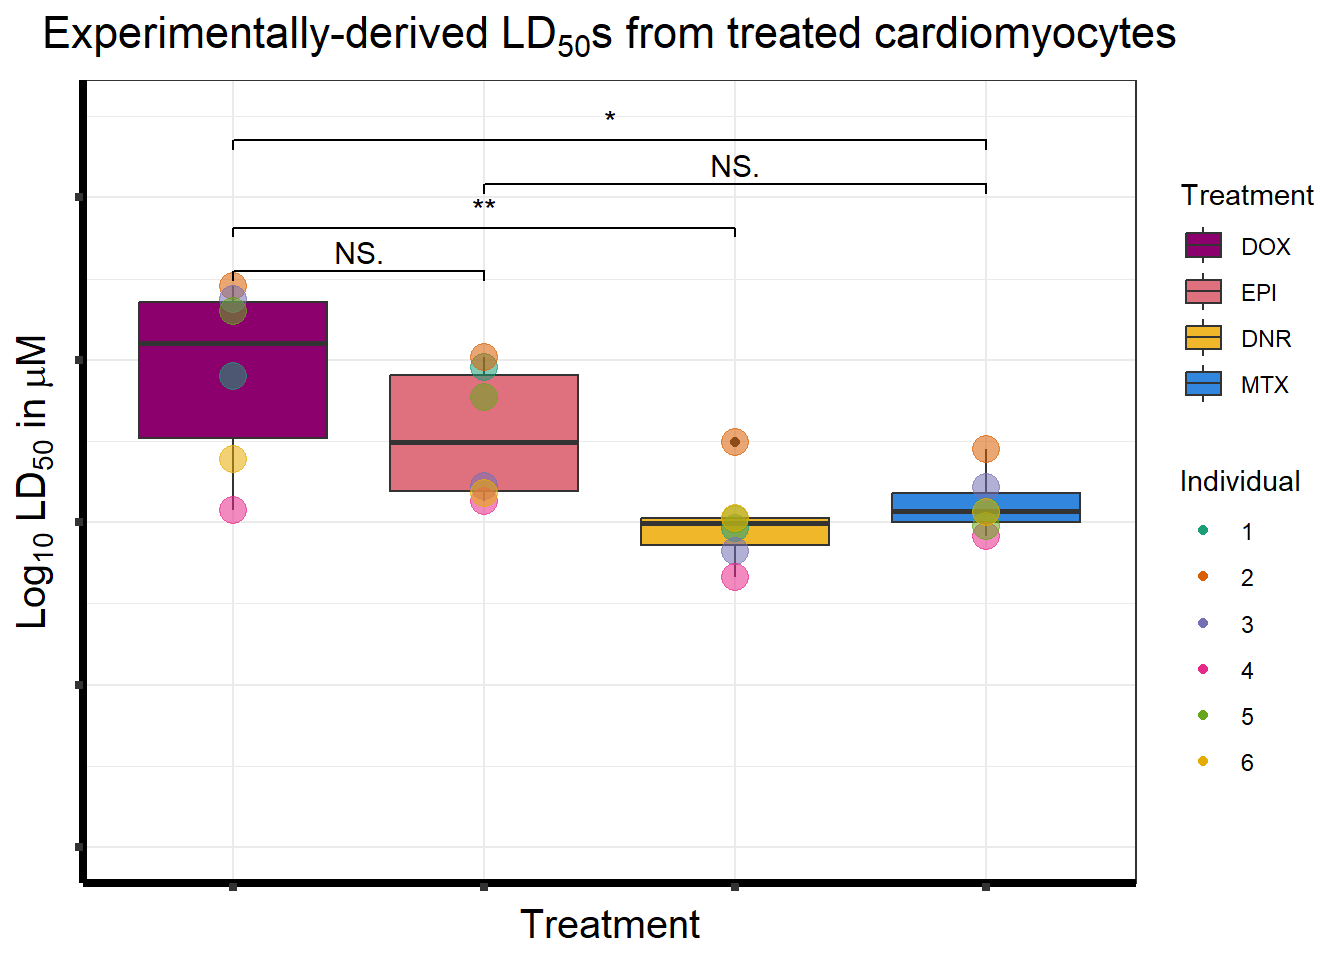
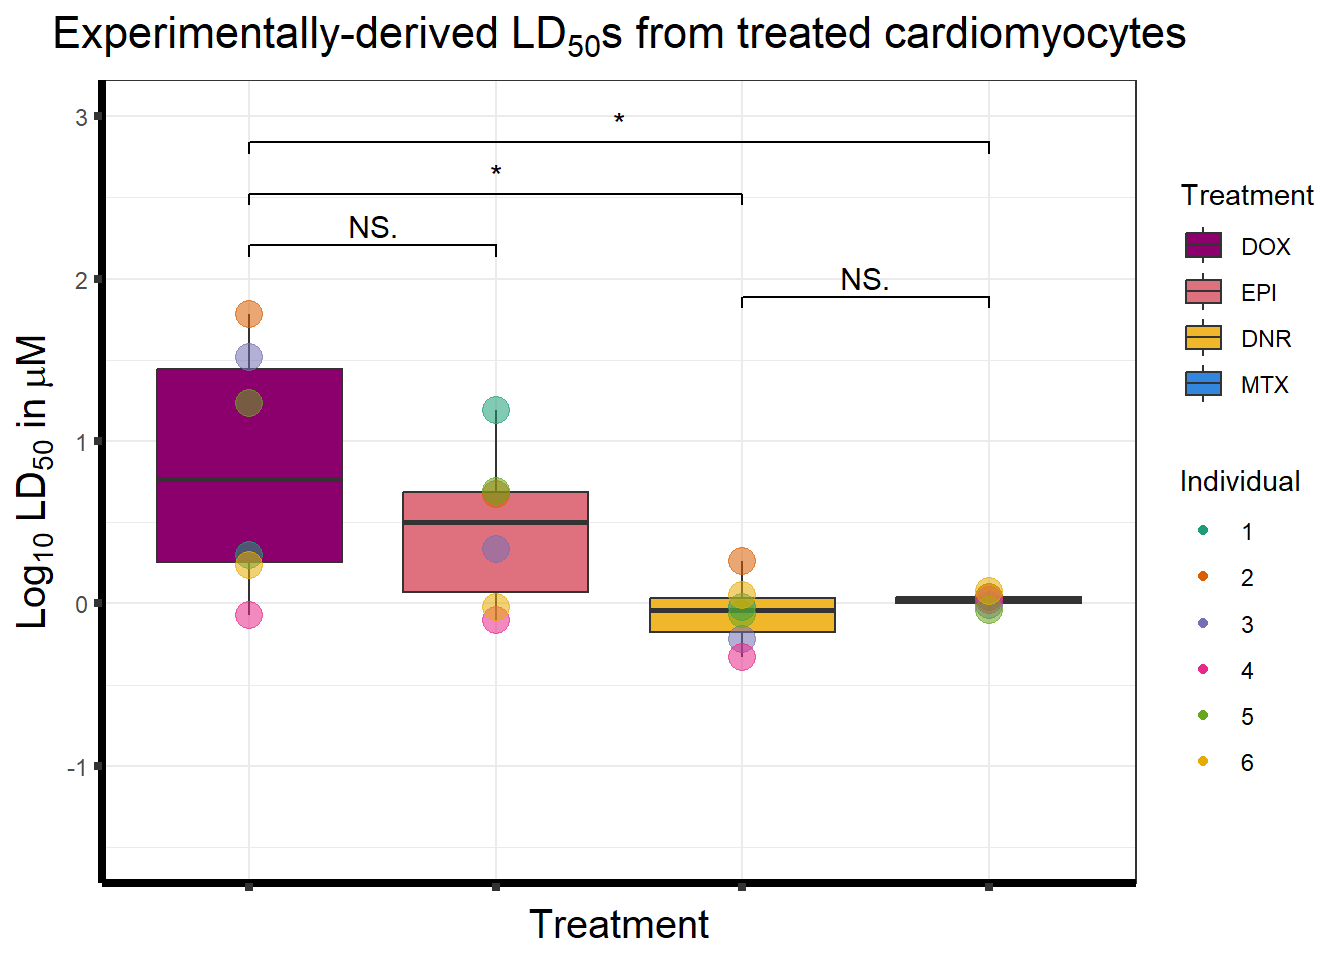
Build site.

diff --git a/docs/Figure1.html b/docs/Figure1.html
@@ -11,7 +11,7 @@
 
 <meta name="author" content="ERM" />
 
-<meta name="date" content="2023-07-18" />
+<meta name="date" content="2023-07-19" />
 
 <title>Figure 1</title>
 
@@ -361,7 +361,7 @@ div.tocify {
 
 <h1 class="title toc-ignore">Figure 1</h1>
 <h4 class="author">ERM</h4>
-<h4 class="date">2023-07-18</h4>
+<h4 class="date">2023-07-19</h4>
 
 </div>
 
@@ -390,7 +390,7 @@ class="glyphicon glyphicon-ok text-success" aria-hidden="true"></span>
 <div class="tab-content">
 <div id="summary" class="tab-pane fade in active">
 <p>
-<strong>Last updated:</strong> 2023-07-18
+<strong>Last updated:</strong> 2023-07-19
 </p>
 <p>
 <strong>Checks:</strong> <span
@@ -521,15 +521,15 @@ project makes it easier to run your code on other machines.</p>
 <div class="panel panel-default">
 <div class="panel-heading">
 <p class="panel-title">
-<a data-toggle="collapse" data-parent="#workflowr-checks" href="#strongRepositoryversionstrongahrefhttpsgithubcomreneeisnowhereCardiotoxicitytreeeff7550bb723ab8825350735962c5236b509f15btargetblankeff7550a">
+<a data-toggle="collapse" data-parent="#workflowr-checks" href="#strongRepositoryversionstrongahrefhttpsgithubcomreneeisnowhereCardiotoxicitytreef3ce7e92f408deec297e5936482409b8ab71b1dbtargetblankf3ce7e9a">
 <span class="glyphicon glyphicon-ok text-success"
 aria-hidden="true"></span> <strong>Repository version:</strong>
-<a href="https://github.com/reneeisnowhere/Cardiotoxicity/tree/eff7550bb723ab8825350735962c5236b509f15b" target="_blank">eff7550</a>
+<a href="https://github.com/reneeisnowhere/Cardiotoxicity/tree/f3ce7e92f408deec297e5936482409b8ab71b1db" target="_blank">f3ce7e9</a>
 </a>
 </p>
 </div>
 <div
[2 lines of base64/hex data omitted]
 class="panel-collapse collapse">
 <div class="panel-body">
 <p>
@@ -539,7 +539,7 @@ reproducibility.
 </p>
 <p>
 The results in this page were generated with repository version
-<a href="https://github.com/reneeisnowhere/Cardiotoxicity/tree/eff7550bb723ab8825350735962c5236b509f15b" target="_blank">eff7550</a>.
+<a href="https://github.com/reneeisnowhere/Cardiotoxicity/tree/f3ce7e92f408deec297e5936482409b8ab71b1db" target="_blank">f3ce7e9</a>.
 See the <em>Past versions</em> tab to see a history of the changes made
 to the R Markdown and HTML files.
 </p>
@@ -557,6 +557,7 @@ Ignored files:
     Ignored:    .RData
     Ignored:    .Rhistory
     Ignored:    .Rproj.user/
+    Ignored:    analysis/figure/
     Ignored:    data/41588_2018_171_MOESM3_ESMeQTL_ST2_for paper.csv
     Ignored:    data/Arr_GWAS.txt
     Ignored:    data/Arr_geneset.RDS
@@ -579,6 +580,7 @@ Ignored files:
     Ignored:    data/Dx24counts.txt
     Ignored:    data/Dx_reQTL_specific.txt
     Ignored:    data/Ep24counts.txt
+    Ignored:    data/Full_LD_rep.csv
     Ignored:    data/GOIsig.csv
     Ignored:    data/GOplots.R
     Ignored:    data/GTEX_setsimple.csv
@@ -666,6 +668,7 @@ Ignored files:
     Ignored:    data/mean_vardrug1.csv
     Ignored:    data/mean_varframe.csv
     Ignored:    data/mymatrix.RDS
+    Ignored:    data/new_ld50avg.RDS
     Ignored:    data/nonresponse_cluster24h.csv
     Ignored:    data/norm_LDH.csv
     Ignored:    data/norm_counts.csv
@@ -758,8 +761,7 @@ Unstaged changes:
     Modified:   analysis/DRC_analysis.Rmd
     Modified:   analysis/Figure2.Rmd
     Modified:   analysis/Figure5.Rmd
-    Modified:   analysis/Figure8.Rmd
-    Modified:   analysis/GOI_plots.Rmd
+    Modified:   analysis/Figure9.Rmd
     Modified:   analysis/Knowles2019.Rmd
     Modified:   analysis/Supplementary_figures.Rmd
     Modified:   analysis/other_analysis.Rmd
@@ -827,6 +829,40 @@ Message
 </tr>
 </thead>
 <tbody>
+<tr>
+<td>
+Rmd
+</td>
+<td>
+<a href="https://github.com/reneeisnowhere/Cardiotoxicity/blob/f3ce7e92f408deec297e5936482409b8ab71b1db/analysis/Figure1.Rmd" target="_blank">f3ce7e9</a>
+</td>
+<td>
+reneeisnowhere
+</td>
+<td>
+2023-07-19
+</td>
+<td>
+updated LD50 plot
+</td>
+</tr>
+<tr>
+<td>
+html
+</td>
+<td>
+<a href="https://rawcdn.githack.com/reneeisnowhere/Cardiotoxicity/e3fe0739b9ab4f7356739c40463c03c040fd96f2/docs/Figure1.html" target="_blank">e3fe073</a>
+</td>
+<td>
+reneeisnowhere
+</td>
+<td>
+2023-07-18
+</td>
+<td>
+Build site.
+</td>
+</tr>
 <tr>
 <td>
 Rmd
@@ -1183,14 +1219,15 @@ library(drc)
 library(cowplot)
 library(ggsignif)
 library(RColorBrewer)
-library(broom)</code></pre>
+library(broom)
+library(ComplexHeatmap)</code></pre>
 <div id="figure-1" class="section level1">
 <h1>Figure 1</h1>
 <p>Top2i drugs affect cardiomyocyte viability in a dose dependent
 manner.</p>
 <div id="a.-project-overview" class="section level2">
 <h2>A. Project overview</h2>
-<p><img src="code/fig1plot.png" style="display: block; margin: auto;" /><img src="code/DRC_plotfigure1.png" style="display: block; margin: auto;" /><img src="code/figurelegeddrc.png" style="display: block; margin: auto;" /></p>
+<p><img src="code/fig1plot.png" style="display: block; margin: auto;" /></p>
 <p>things to note about this image so far: Need to import into
 illustrator. Goal is to have colors changes on Drugs from sick purple
 and jaundice yellow, to a red tone and a blue tone for non-ACs. I also
@@ -1212,57 +1249,24 @@ print(plan2)</code></pre>
 Lines are a log-logistic regression of the mean from quadruplicates at 8
 separate concentrations for each condition, except (trastuzmab)TRZ,
 which is 7 concentrations.</p>
-</div>
-<div id="c.-48-hour-50-lethal-pearson-correlation-heatmap"
-class="section level2">
-<h2>C. 48 hour 50% lethal Pearson correlation heatmap</h2>
-<pre class="r"><code>library(ComplexHeatmap)
-
-Heatmap_mat &lt;- readRDS(&quot;data/Heatmap_mat.RDS&quot;)
-Heatmap_sig &lt;- readRDS(&quot;data/Heatmap_sig.RDS&quot;)
-
-col_funld &lt;- circlize::colorRamp2(c(0, 1), c(&quot;white&quot;, &quot;darkblue&quot;))
-Heatmap(Heatmap_mat,
-        column_title = &quot;Pearson correlation of LD50s between treatments&quot;,
-        name = &quot;rho value&quot;,
-        cluster_rows = FALSE, 
-        cluster_columns = FALSE,
-        column_names_rot = 0,
-        column_names_centered = TRUE,
-       col = col_funld,
-        # na_col=&quot;lightyellow&quot;,
-        cell_fun = function(j, i, x, y, width, height, fill) {
-        if(Heatmap_sig[i, j]&lt; 0.05)
-            grid.text(&quot;*&quot;, x, y, gp = gpar(fontsize = 20))
-})</code></pre>
-<p><img src="figure/Figure1.Rmd/heatmap-1.png" width="672" style="display: block; margin: auto;" /></p>
 <pre class="r"><code>drug_palc &lt;- c(&quot;#8B006D&quot;,&quot;#DF707E&quot;,&quot;#F1B72B&quot;, &quot;#3386DD&quot;,&quot;#707031&quot;,&quot;#41B333&quot;)
 BC_cell_lines &lt;- read.csv(&quot;data/BC_cell_lines.csv&quot;,row.names = 1)
-LD50_table &lt;- read.csv(&quot;data/ld50_table.csv&quot;,row.names = 1)
-avgLD50 &lt;- LD50_table %&gt;% 
-  rownames_to_column() %&gt;% 
-  as.tibble()%&gt;% 
-  mutate(rowname=case_match(rowname,&#39;1&#39;~&#39;DNR&#39;,&#39;2&#39;~&#39;DOX&#39;,&#39;3&#39;~&#39;EPI&#39;,&#39;4&#39;~&#39;MTX&#39;, .default = rowname))%&gt;% 
-  pivot_longer(!rowname,names_to = &#39;indv&#39;, values_to = &#39;ld50&#39;) %&gt;% 
-  mutate(indv=str_sub(indv, 4,4)) %&gt;% 
-  group_by(rowname,indv) %&gt;% 
-  summarise_at(vars(ld50),list(name = mean)) %&gt;% 
-  as.data.frame()
+LD50_table &lt;- readRDS(&quot;data/new_ld50avg.RDS&quot;)
+
   
-graphLD50 &lt;- 
-  avgLD50 %&gt;%     
-  mutate(rowname=factor(rowname, levels = c(&#39;DOX&#39;,&#39;EPI&#39;,&#39;DNR&#39;,&#39;MTX&#39;,&#39;TRZ&#39;,&#39;VEH&#39;))) %&gt;% 
-  ggplot(., (aes(x = (rowname), y = log10(name)))) +
-  geom_boxplot(position = &quot;identity&quot;, aes(fill=rowname))+
+LD50_table %&gt;% 
+  mutate(Treatment=factor(Treatment, 
+                          levels = c(&#39;DOX&#39;, &#39;EPI&#39;, &#39;DNR&#39;, &#39;MTX&#39;, &#39;TRZ&#39;, &#39;VEH&#39;))) %&gt;% 
+  ggplot(., (aes(x = Treatment, y = log10(Estimate)))) +
+  geom_boxplot(position = &quot;identity&quot;, aes(fill=Treatment))+
   geom_point(aes(color = indv,
                  size = 5,alpha = 0.5)) +
   ggtitle(expression(&quot;Experimentally-derived LD&quot;[50]*&quot;s from treated cardiomyocytes&quot;))+
   xlab(&quot;Treatment&quot;)+
-  geom_signif(comparisons =list(c(&quot;DOX&quot;,&quot;EPI&quot;),
+  geom_signif(comparisons =list(c(&quot;DNR&quot;,&quot;MTX&quot;),
+                                c(&quot;DOX&quot;,&quot;EPI&quot;),
                                 c (&quot;DOX&quot;,&quot;DNR&quot;),
-                                c (&quot;EPI&quot;,&quot;MTX&quot;),
-                                c(&quot;DOX&quot;,&quot;MTX&quot;),
-                                c(&quot;DNR&quot;,&quot;MTX&quot;)),
+                                c(&quot;DOX&quot;,&quot;MTX&quot;)),
              test=&quot;t.test&quot;,
              map_signif_level=TRUE,
              textsize =4,
@@ -1270,7 +1274,8 @@ graphLD50 &lt;-
   ylab(bquote(&#39;Log&#39;[10]~ &#39;LD&#39;[50]~&#39;in &#39;*mu*M))+
   scale_color_brewer(palette = &quot;Dark2&quot;,
                      name = &quot;Individual&quot;)+
-  ylim(-2,2.5)+
+  ylim(-1.5,3)+
+    # scale_y_continuous(expand=expansion(.001))+
   scale_fill_manual(values=drug_palc, name=&quot;Treatment&quot;)+
   theme_bw() + 
   theme(plot.title = element_text(hjust =0.5, size = 18))+
@@ -1281,11 +1286,9 @@ graphLD50 &lt;-
         axis.title = element_text(size = 15, color = &quot;black&quot;),
         axis.ticks = element_line(linewidth = 1.5),
         axis.line = element_line(linewidth = 1.5),
-        axis.text = element_text(size=0,color = &quot;white&quot;),
+        axis.text.x = element_text(size=0,color = &quot;white&quot;),
         # axis.text = element_text(size = 12, color = &quot;black&quot;, angle = 0),
-        strip.text.x = element_text(size = 15, color = &quot;black&quot;, face = &quot;bold&quot;))   
-
-graphLD50</code></pre>
+        strip.text.x = element_text(size = 15, color = &quot;black&quot;, face = &quot;bold&quot;))   </code></pre>
 <p><img src="figure/Figure1.Rmd/LD50-1.png" width="672" style="display: block; margin: auto;" />
 ## D. Breast cancer cell line 50% lethal dose plot</p>
 <pre class="r"><code>graphBC &lt;-
@@ -1380,13 +1383,13 @@ loaded via a namespace (and not attached):
  [4] clue_0.3-64         GetoptLong_1.0.5    git2r_0.32.0       
  [7] multcomp_1.4-25     matrixStats_1.0.0   compiler_4.3.1     
 [10] getPass_0.2-2       mgcv_1.9-0          png_0.1-8          
-[13] callr_3.7.3         vctrs_0.6.3         shape_1.4.6        
-[16] pkgconfig_2.0.3     crayon_1.5.2        fastmap_1.1.1      
+[13] callr_3.7.3         vctrs_0.6.3         pkgconfig_2.0.3    
+[16] shape_1.4.6         crayon_1.5.2        fastmap_1.1.1      
 [19] backports_1.4.1     labeling_0.4.2      utf8_1.2.3         
 [22] promises_1.2.0.1    rmarkdown_2.23      tzdb_0.4.0         
 [25] ps_1.7.5            xfun_0.39           cachem_1.0.8       
 [28] jsonlite_1.8.7      highr_0.10          later_1.3.1        
-[31] cluster_2.1.4       parallel_4.3.1      R6_2.5.1           
+[31] parallel_4.3.1      cluster_2.1.4       R6_2.5.1           
 [34] bslib_0.5.0         stringi_1.7.12      jquerylib_0.1.4    
 [37] Rcpp_1.0.11         iterators_1.0.14    knitr_1.43         
 [40] zoo_1.8-12          IRanges_2.34.1      httpuv_1.6.11      
@@ -1403,7 +1406,7 @@ loaded via a namespace (and not attached):
 [73] plotrix_3.8-2       colorspace_2.1-0    nlme_3.1-162       
 [76] cli_3.6.1           fansi_1.0.4         gtable_0.3.3       
 [79] sass_0.4.6          digest_0.6.33       TH.data_1.1-2      
-[82] rjson_0.2.21        farver_2.1.1        htmltools_0.5.5    
+[82] farver_2.1.1        rjson_0.2.21        htmltools_0.5.5    
 [85] lifecycle_1.0.3     httr_1.4.6          GlobalOptions_0.1.2</code></pre>
 </div>
 </div>
